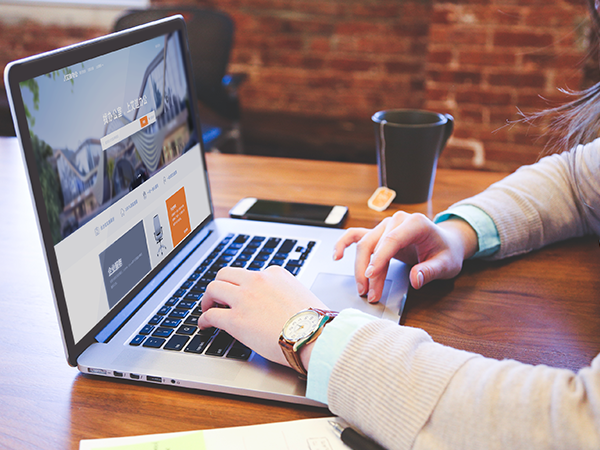
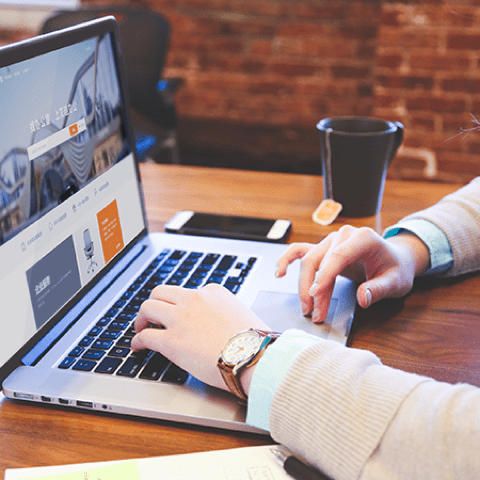
:white_check_mark: 修复上一版本移动端显示错误; 压缩图片

diff --git a/index.html b/index.html
@@ -2,16 +2,22 @@
 <html lang="zh-cmn-Hans">
     <head>
         <meta charset="utf-8">
+        <!-- iphone设备中的safari私有meta标签，它表示：允许全屏模式浏览 -->
         <meta name="apple-mobile-web-app-capable" content="yes">
         <meta name="apple-touch-fullscreen" content="yes">
-        <meta name="format-detection" content="telephone=yes,email=no">
-        <meta name="viewport" content="width=device-width, initial-scale=1.0,maximum-scale=1.0, user-scalable=0">
-        <script src="http://g.tbcdn.cn/mtb/lib-flexible/0.3.4/??flexible_css.js,flexible.js"></script>
-        <link rel="apple-touch-icon" href="./static/favicon.png">
-        <link rel="Shortcut Icon" href="./static/favicon.png" type="image/x-icon">
+        <!-- iphone的私有标签，它指定的iphone中safari顶端的状态条的样式 -->
+        <meta content="black" name="apple-mobile-web-app-status-bar-style" />
+        <!-- 告诉设备忽略将页面中的数字识别为电话号码 -->
+        <meta name="format-detection" content="telephone=no,email=no">
+        <!-- 强制让文档的宽度与设备的宽度保持1:1，并且文档最大的宽度比例是1.0，且不允许用户点击屏幕放大浏览 -->
+        <meta name="viewport" content="width=device-width, initial-scale=1.0,maximum-scale=1.0, user-scalable=0" />
+        <!-- 保存高清图标为ICON -->
         <link rel="apple-touch-icon-precomposed" href="http://www.shangchaotech.com/static/favicon.png" />
         <link rel="apple-touch-icon-precomposed" sizes="72x72" href="http://www.shangchaotech.com/static/favicon@2x.png" />
         <link rel="apple-touch-icon-precomposed" sizes="114x114" href="http://www.shangchaotech.com/static/favicon@3x.png" />
+        <script src="http://g.tbcdn.cn/mtb/lib-flexible/0.3.4/??flexible_css.js,flexible.js"></script>
+        <link rel="apple-touch-icon" href="./static/favicon.png">
+        <link rel="Shortcut Icon" href="./static/favicon.png" type="image/x-icon">
         <meta name="description" content="青岛上朝科技有限公司">
         <meta name="keywords" content="上朝科技">
         <meta name="robots" content="index,follow">

diff --git a/src/main.js b/src/main.js
@@ -38,20 +38,20 @@ new Vue({
  * 但是会有一个1秒左右的延迟，期间可以考虑通过loading展示  
  * 仅供参考  
  */
-// (function(){
-//     if (typeof(WeixinJSBridge) == 'undefined') {  
-//         document.addEventListener('WeixinJSBridgeReady', function ( e ) {  
-//             setTimeout(function(){  
-//                 WeixinJSBridge.invoke('setFontSizeCallback', { 'fontSize': 0 }, function( res ) {  
-//                     // alert(JSON.stringify(res));  
-//                 });  
-//             },0);  
-//         });  
-//     } else {  
-//         setTimeout(function(){  
-//             WeixinJSBridge.invoke('setFontSizeCallback',{ 'fontSize': 0 }, function( res ) {  
-//                 // alert(JSON.stringify(res));  
-//             });  
-//         },0);  
-//     }  
-// })();
+(function(){
+    if (typeof(WeixinJSBridge) == 'undefined') {  
+        document.addEventListener('WeixinJSBridgeReady', function ( e ) {  
+            setTimeout(function(){  
+                WeixinJSBridge.invoke('setFontSizeCallback', { 'fontSize': 0 }, function( res ) {  
+                    // alert(JSON.stringify(res));  
+                });  
+            },0);  
+        });  
+    } else {  
+        setTimeout(function(){  
+            WeixinJSBridge.invoke('setFontSizeCallback',{ 'fontSize': 0 }, function( res ) {  
+                // alert(JSON.stringify(res));  
+            });  
+        },0);  
+    }  
+})();

diff --git a/src/sass/main.sass b/src/sass/main.sass
@@ -10,10 +10,10 @@
 @import "./state/Distance"
 
 // 禁止用户放大系统字体, 影响到页面
-// body
-//     -webkit-text-size-adjust: 100% !important
-//     -moz-text-size-adjust: 100% !important
-//     text-size-adjust: 100% !important
+body
+    -webkit-text-size-adjust: 100% !important
+    -moz-text-size-adjust: 100% !important
+    text-size-adjust: 100% !important
 
 // 页面继承
 =moduleBoxStyle

diff --git a/README.md b/README.md
@@ -69,4 +69,9 @@ For detailed explanation on how things work, checkout the [guide](http://vuejs-t
     >
     > 完全支持 iPad Pro的 `1024`像素效果, 并完成测试( chrome模拟 )
 
+* 2017.4.1
+    > 修复上一版本 在移动端下, 页面显示错误( 修复`meta`错误 )
+    >
+    > 通过[压缩网站](http://compresspng.com/zh/) 再次压缩图片( `bg.png`已压缩到极限, 无法再压缩 )
+
     
